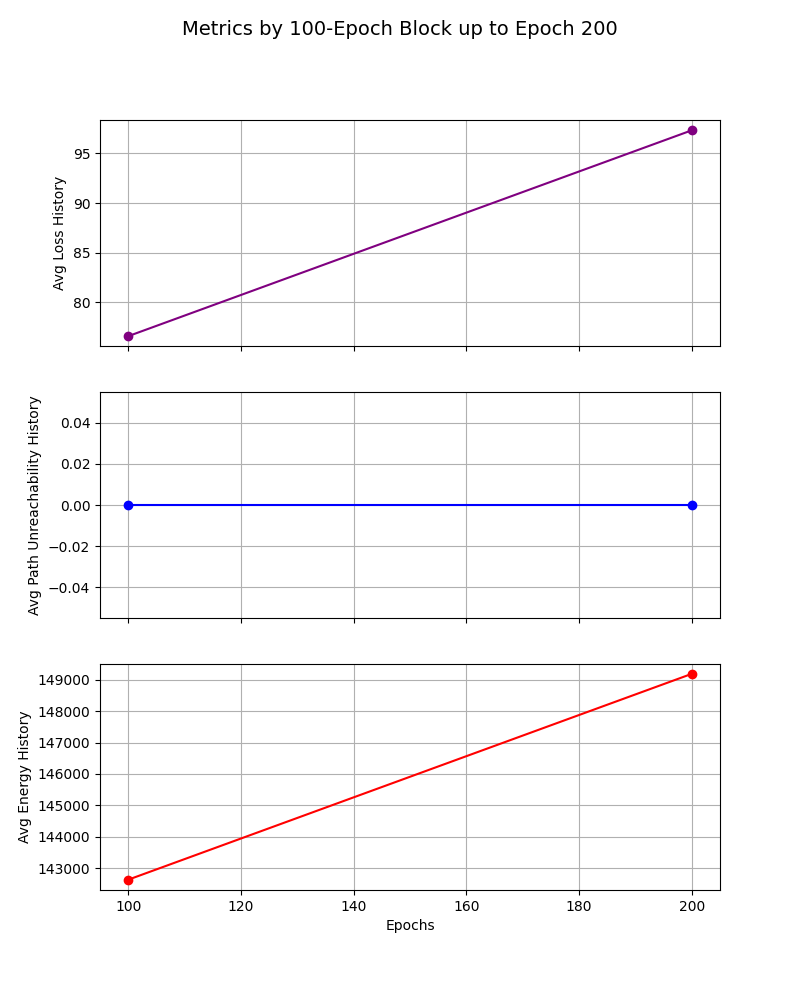
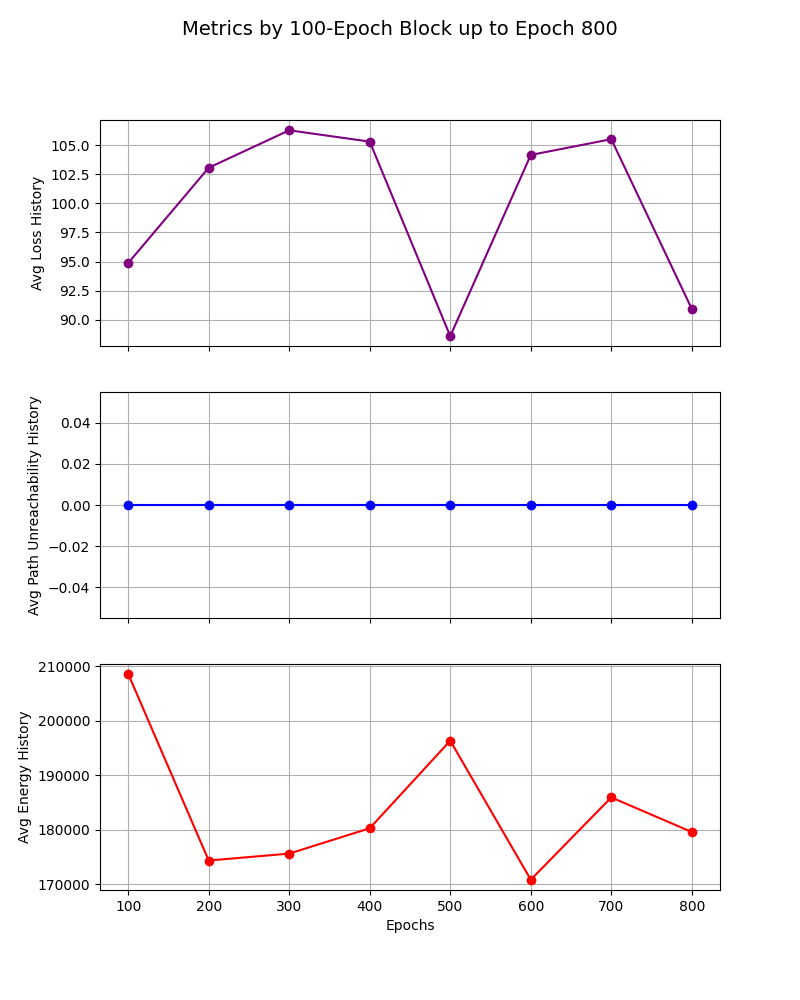
finding path bugix

diff --git a/sim/utils.py b/sim/utils.py
@@ -144,35 +144,39 @@ def get_ip_to_node(ip_list):
     return ip_to_node
 
 
-def find_path(start_node, dest_ip, routing_tables, ip_to_node):
-    dest_parts = dest_ip.split('.')
-    dest_net = f"{dest_parts[0]}.{dest_parts[1]}.{dest_parts[2]}.0"
+def find_path(start_node, dest_node, routing_tables, ip_to_node):
+    dest_ips = [ip for ip, node in ip_to_node.items() if node == dest_node]
+    if not dest_ips:
+        return None
+
+    dest_networks = {'.'.join(ip.split('.')[:3]) + '.0' for ip in dest_ips}
 
     path = [start_node]
+    visited = set([start_node])
     current_node = start_node
-    visited = {current_node}
     max_hops = 30
 
     while max_hops > 0:
         if current_node not in routing_tables:
             return None
 
-        if dest_net not in routing_tables[current_node]:
+        found = False
+        for net in dest_networks:
+            if net in routing_tables[current_node]:
+                next_hop_ip = routing_tables[current_node][net]
+                found = True
+                break
+
+        if not found:
             return None
 
-        next_hop = routing_tables[current_node][dest_net]
-
-        if next_hop == '0.0.0.0' or next_hop == dest_ip:
-            dest_node = ip_to_node.get(dest_ip)
-            if dest_node:
-                path.append(int(dest_node))
+        if ip_to_node.get(next_hop_ip) == dest_node:
+            path.append(dest_node)
             return path
 
-        next_node = ip_to_node.get(next_hop)
+        next_node = ip_to_node.get(next_hop_ip)
         if next_node is None:
             return None
-
-        next_node = int(next_node)
 
         if next_node in visited:
             return None
@@ -180,16 +184,6 @@ def find_path(start_node, dest_ip, routing_tables, ip_to_node):
         path.append(next_node)
         visited.add(next_node)
         current_node = next_node
-
-        node_ips = [ip for ip, node in ip_to_node.items() if int(node)
-                    == next_node]
-        for ip in node_ips:
-            if ip.startswith('.'.join(dest_parts[:3])):
-                dest_node = ip_to_node.get(dest_ip)
-                if dest_node:
-                    path.append(int(dest_node))
-                return path
-
         max_hops -= 1
 
     return None
@@ -211,7 +205,7 @@ def parse_routes_manually(file_path):
             node_id = int(node_id)
             time = int(time)
 
-            if time == 10:
+            if 30 < time < 40:
                 if node_id not in routing_tables:
                     routing_tables[node_id] = {}
 

diff --git a/sim/monitor.py b/sim/monitor.py
@@ -30,7 +30,7 @@ class Monitor:
     def setup_animation(self, anim_file=sample_data['xml_animation_file'], enable_packet_metadata=True):
         self.anim = ns.AnimationInterface('/dev/null')
         self.anim.EnableIpv4RouteTracking(
-            sample_data['routing_table_file'], ns.Seconds(10), ns.Seconds(20))
+            sample_data['routing_table_file'], ns.Seconds(30), ns.Seconds(40))
         return self.anim
 
     def setup_flow_monitor(self):
@@ -204,14 +204,13 @@ class Monitor:
             server_node = self.app.servers.Get(server_idx)
             server_id = server_node.GetId()
 
-            client_ip = self.node_to_ip[client_id][self.app.client_gateways[i]]
-            server_ip = self.node_to_ip[server_id][self.app.server_gateways[i]]
-
-            # print(
-            # f"\nRoute from Client {i} (Node {client_id}, IP {client_ip}) to Server {server_idx} (Node {server_id}, IP {server_ip}):")
-
-            path = find_path(client_id, server_ip,
-                             routing_tables, self.ip_to_node)
+            client = self.app.client_gateways[i]
+            server = self.app.server_gateways[server_idx]
+            path = find_path(client, server,
+                             routing_tables, self.ip_to_node,)
+            if path is None:
+                path = find_path(server, client,
+                                 routing_tables, self.ip_to_node,)
 
             if not path:
                 self.app.client_info[client_id]["failed"] = self.app.client_info[client_id]["max_packets"]

diff --git a/rl_env.py b/rl_env.py
@@ -53,7 +53,7 @@ class NetworkEnv:
             self.active_routers.append(1 if row_sum > 0 else 0)
             self.active_links[i] = int(row_sum)
 
-        self.app = App(self.topology, client_gateways=self.client_gateways, server_gateways=self.server_gateways, app_interval=1, n_clients=self.n_clients, n_servers=self.n_servers,
+        self.app = App(self.topology, client_gateways=self.client_gateways, server_gateways=self.server_gateways, app_interval=1, n_clients=self.n_clients, n_servers=self.n_servers, app_start_time=40,
                        app_duration=self.simulation_duration)
 
         self.app.monitor = Monitor(self.app.topology, self.app)

diff --git a/Main.py b/Main.py
@@ -80,6 +80,9 @@ for epoch in range(1000):
     agent.optimizer.zero_grad()
     loss.backward()
     agent.optimizer.step()
+    if reward == 0.5 and len(list(nx.all_simple_paths(nx.from_numpy_array(
+            np.array(adj_matrix)), client_gateways[0], server_gateways[0]))) > 0:
+        print("="*20, " 1FAIL1 ", "="*20)
 
     print(
         f"Epoch {epoch}, Reward: {reward}, Loss: {loss_value:.4f}, e: {e:.4f}, q: {q}")

diff --git a/utils.py b/utils.py
@@ -110,7 +110,7 @@ def collect_graph_metrics(adj_matrix, original_adj_matrix):
     # Convert to numpy arrays once
     current_array = np.array(adj_matrix)
     original_array = np.array(original_adj_matrix)
-    
+
     # Cache graph creation
     current_graph = nx.from_numpy_array(current_array)
     original_graph = nx.from_numpy_array(original_array)
